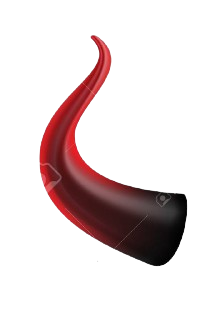
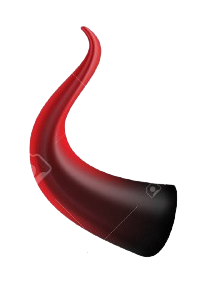
Mask 기능 조정
위치 조정(1)
선택 기능 보완 등

Changed region(s): [[0.12, 0.09, 0.9, 0.87], [0.66, 0.69, 0.69, 0.72], [0.6, 0.72, 0.63, 0.75]]

diff --git a/src/app/function/Mask/page.js b/src/app/function/Mask/page.js
@@ -1,53 +1,65 @@
+'use client'
 import './mask.css'
+
 export default function Func_page(){
     return(
         <>
+            <script src="/sketch.js"></script>
             <div className='option'>
-                <span className='div_title'>세부 설정 및 기능</span>
+                <span className='div_title'>기능 선택</span>
                 <div className="selector">
-                    <input type="radio" id='mask1' value={1}   name="maskType"/>1
-                    <label htmlFor='mask1' >
-                    </label>
+                    <div className='option'>
+                        <input type="radio" id='mask1' value={1}   name="maskType"/>
+                        <label id='mask1Label' htmlFor='mask1' >악마 뿔</label>
+                    </div>
+
+                    <div className='option'>
+                        <input type="radio" id='mask2' value={2}   name="maskType"/>
+                        <label id='mask2Label' htmlFor='mask2' >안경</label>
+                    </div>
+                        
+                    <div className='option'>
+                        <input type="radio" id='mask3' value={3}   name="maskType"/>
+                        <label id='mask3Label' htmlFor='mask3' >복면</label>
+                    </div>
+
+                    <div className='option'>                    
+                        <input type="radio" id='mask4' value={4}   name="maskType"/>
+                        <label id='mask4Label' htmlFor='mask4' >불타는 얼굴</label>
+                    </div>
+
+                    <div className='option'>
+                        <input type="radio" id='mask5' value={5}   name="maskType"/>
+                        <label id='mask5Label' htmlFor='mask5' >천사 링</label>
+                    </div>
                     
-                    <input type="radio" id='mask2' value={2}   name="maskType"/>2
-                    <label htmlFor='mask2' >
-                    </label>
-                    
-                    <input type="radio" id='mask3' value={3}   name="maskType"/>3
-                    <label htmlFor='mask3' >
-                    </label>
-                    
-                    <input type="radio" id='mask4' value={4}   name="maskType"/>4
-                    <label htmlFor='mask4' >
-                    </label>
-                    
-                    <input type="radio" id='mask5' value={5}   name="maskType"/>5
-                    <label htmlFor='mask5' >
-                    </label>
-                    
-                    <input type="radio" id='mask6' value={6}   name="maskType"/>6
-                    <label htmlFor='mask6' >
-                    </label>
-                    
-                    <input type="radio" id='mask7' value={7}   name="maskType"/>7
-                    <label htmlFor='mask7' >
-                    </label>
-                    
-                    <input type="radio" id='mask8' value={8}   name="maskType"/>8
-                    <label htmlFor='mask8' >
-                    </label>
-                    
-                    <input type="radio" id='mask9' value={9}   name="maskType"/>9
-                    <label htmlFor='mask9' >
-                    </label>
-                    
-                    <input type="radio" id='mask10' value={10} name="maskType"/>0
-                    <label htmlFor='mask10'>
-                    </label>
+                    <div className='option'>
+                        <input type="radio" id='mask6' value={6}   name="maskType"/>
+                        <label id='mask6Label' htmlFor='mask6' >콧수염</label>
+                    </div>
+                        
+                    <div className='option'>
+                        <input type="radio" id='mask7' value={7}   name="maskType"/>
+                        <label id='mask7Label' htmlFor='mask7' >해골</label>
+                    </div>
+                        
+                    <div className='option'>
+                        <input type="radio" id='mask8' value={8}   name="maskType"/>
+                        <label id='mask8Label' htmlFor='mask8' >호박</label>
+                    </div>
+                        
+                    <div className='option'>
+                        <input type="radio" id='mask9' value={9}   name="maskType"/>
+                        <label id='mask9Label' htmlFor='mask9' >중세 투구</label>
+                    </div>
+                        
+                    <div className='option'>
+                        <input type="radio" id='mask10' value={10} name="maskType"/>
+                        <label id='mask10Label' htmlFor='mask10' >페페</label>
+                    </div>
                 </div>
             </div>
             <main>
-                <script src="/sketch.js"></script>
             </main>
         </>
         )

diff --git a/src/app/function/Mask/mask.css b/src/app/function/Mask/mask.css
@@ -2,15 +2,34 @@ div.selector {
     display: flex;
     flex-direction: column;
 }
-div.selector label {
-    padding: 1vw;
-    display: flex;
-    justify-content: space-between;
+
+div.selector div.option{
+    padding: 0;
+    width: 100%;
 }
-div.selector input[type="radio"]:checked {
-    background-color: blue;
+
+div.selector label {
+    margin-top: 0.5vw;
+    margin-bottom: 0.5vw;
+    padding: 1vw;
+    width: 100%;
+    
+    display: block;
+    
+    border-radius: 0.5vw;
+    text-align: center;
+
+    font-weight: bold;
+}
+
+div.selector input[type="radio"] {
+    display: none;
 }
 
 div.selector input[type="radio"]:checked + label {
-    font-size: 100px;
+    background-color: var(--text);
+
+canvas {
+    display: block;
 }
+    
